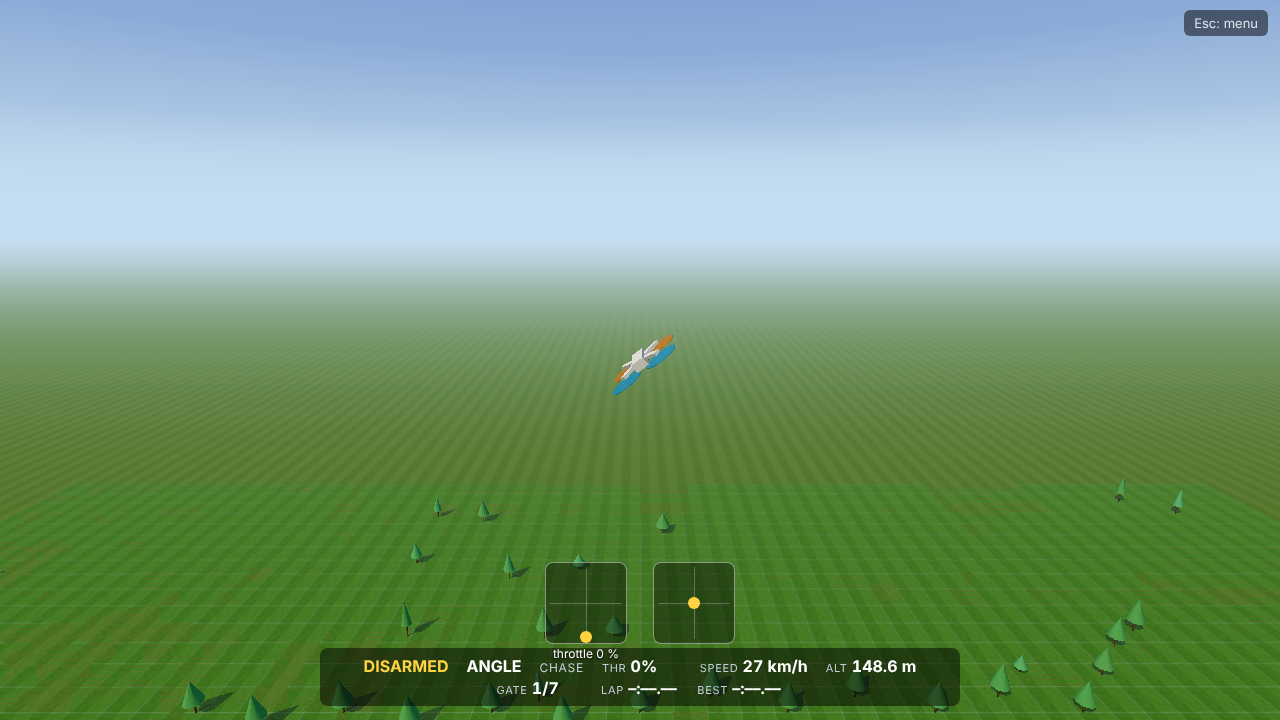
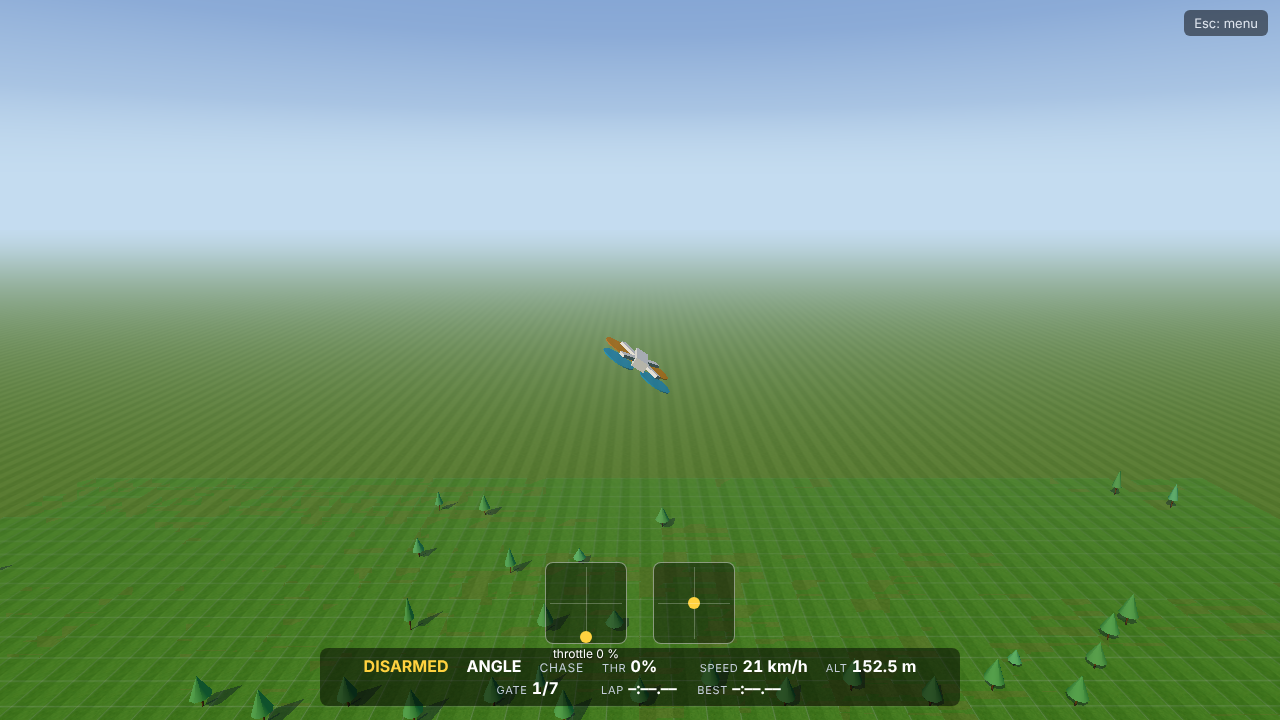
M13 ticked: disarmed tumble and body drag done, unlock

diff --git a/PROGRESS.md b/PROGRESS.md
@@ -1,7 +1,7 @@
 # PROGRESS — the relay's log (newest at the bottom)
 
-Status: **IN PROGRESS**
-Next: **M13 Disarmed tumble and body drag (I5)** (PLAN.md)
+Status: **DONE**
+Next: **nothing** (M13 done; Mike decides what comes next)
 Live link: https://mickethegeek.github.io/fpv-sim/ (not checkable from the cloud sandbox, see Assumptions)
 
 ## Milestones
@@ -33,10 +33,12 @@ Live link: https://mickethegeek.github.io/fpv-sim/ (not checkable from the cloud
 ## Phase 3
 - [x] M12 Inertia / coupling investigation (diagnose, fix, report)  ← Mike notified
 
-- [ ] M13 Disarmed tumble and body drag (I5)  ← message Mike when done
+- [x] M13 Disarmed tumble and body drag (I5)  ← Mike notified
 
 ## Assumptions made without asking Mike
 (one line each: what, why, how to change it)
+- M13: arm width 14 mm, frame centre 100 mm long, 18 cm² blade area per stopped prop, and the fade of stopped-blade drag as props spin up to idle are UNSOURCED (no published figure). Change `defaultBodyGeom()` in `src/bodydrag.js` / `propStopN`.
+- M13: `dragQuadratic` in `src/params.js` is now a scale on the element body drag (1 = as built, 0 = off), not N per (m/s)²; the Feel tuning floatiness still divides it.
 - M12: the cited rotor-drag coefficient (0.3 N per m/s) is taken to hold at hover prop speed and scales linearly with prop speed (Martin 2014). Change `dragBody` / the `nHover` reference in `src/physics.js`.
 - Live link is assumed to be https://mickethegeek.github.io/fpv-sim/ (Pages from `main` root). The relay sandbox cannot reach github.io or the Pages API (proxy 403), so no leg can confirm it is switched on. If the link 404s: repo Settings → Pages → Deploy from branch → `main` / root. Tell Mike this in the M3 message.
 - three.js r170 vendored as `vendor/three.module.min.js` (latest stable fetched from npm). Change by replacing the file.
@@ -258,3 +260,4 @@ Live link: https://mickethegeek.github.io/fpv-sim/ (not checkable from the cloud
 - 2026-11-21 11:45 Zurich · M13: 3 unit tests (flat falls slower than edge-on, a disarmed spin slows and much faster while falling, spinning props not counted as stopped blades), all 3 fail on the M12 model; browser block M13 passes in Chrome (fall 19.1 flat vs 23.7 m/s edge-on after 3 s; disarmed 600 deg/s spin on the page 501 → 290 deg/s in 2 s), proof/M13/m13-*.png looked at; 96 unit tests · next: docs, full browser run, tick M13
 - 2026-11-21 11:46 Zurich · M13: docs: inertia-review I5 moved to fixed (every size with its source or UNSOURCED, effects, what is not modelled: windmilling props), physics.md and feel.md rows, REPORT M13 section and UNSOURCED table; full browser run going · next: full run result, tick M13, message Mike
 - 2026-11-21 11:57 Zurich · M13: full browser run at 123 ok, 1 failure: M5 pad hover drifted 1.6 m (limit 1.5) because the climb settles a little slower with pitchSpeed 60; wait 4.5 → 6.5 s, M5 block rerun alone passes (proof/M13rerun) · next: finish full run, tick M13
+- 2026-11-21 12:18 Zurich · M13 ticked, relay DONE: body drag of frame, battery and stopped props per element in the body frame (src/bodydrag.js): disarmed fall 79 km/h flat vs 151 nose-down, a 600 deg/s disarmed spin while falling slows to 175 deg/s in 3 s (never before); pitchSpeed 60 keeps 151 km/h top speed; 96 unit tests (3 new, fail on the M12 model); full browser run 199 ok + 1 old check (M5 pad hover) given more time and passing on rerun; M13 block made robust (fresh page) and passing with M5/M12 (proof/M13rerun); flight.mjs 'only' takes a list (M5,M12,M13); docs/inertia-review I5, REPORT; Mike notified · next: nothing

diff --git a/REPORT.md b/REPORT.md
@@ -48,6 +48,7 @@ Your friend's point, checked: `docs/inertia-review.md`; reproduced in `node test
 - Most of that slowing comes from the fall itself (the side swinging into the falling air gets hit harder); in still air the air barely slows a spin, which is real: the arm tips only move at about 1.5 m/s.
 - Sizes are from the CNHL 1300 6S battery and the SpeedyBee FS225 frame; arm width, frame length and stopped-blade area are UNSOURCED (no published figure). Windmilling props in the fall are not modelled, so the fall speeds are an upper bound.
 - Flying is unchanged: prop pitch speed retuned 54 → 60 m/s keeps the 151 km/h top speed; hover, rates and coasting are the same. Details: `docs/inertia-review.md` I5.
+- Checked: 96 unit tests (3 new for I5, each failing on the M12 model); full browser run 199 checks ok, 1 old check (M5 pad hover) given more settling time and passing on rerun, plus the new M13 block flown on the page (`proof/M13/`, log `proof/M13/full-run.log`).
 
 ## How it was checked
 
